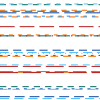
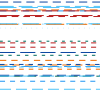
Deploying to gh-pages from  @ 7e85a0831d0af09599119f957cc7158f2b35ffed 🚀

diff --git a/index.html b/index.html
@@ -7,7 +7,7 @@
       <link rel="stylesheet" href="style.css" />
     </head>
     <body class="overview">
-      <a href="solutions/033/Moongirl1207/index.html"><img src="033-moongirl1207.png" src="033-moongirl1207" /></a><a href="solutions/028/ellensierens/index.html"><img src="028-ellensierens.png" src="028-ellensierens" /></a><a href="solutions/036/vanessabloes/index.html"><img src="036-vanessabloes.png" src="036-vanessabloes" /></a><a href="solutions/030/YarlVanOnckelen/index.html"><img src="030-yarlvanonckelen.png" src="030-yarlvanonckelen" /></a><a href="solutions/025/lukasdebeerst/index.html"><img src="025-lukasdebeerst.png" src="025-lukasdebeerst" /></a><a href="solutions/002/SimonVanherweghe/index.html"><img src="002-simonvanherweghe.png" src="002-simonvanherweghe" /></a><a href="solutions/004/SimonVanherweghe/index.html"><img src="004-simonvanherweghe.png" src="004-simonvanherweghe" /></a><a href="solutions/032/PepijnDejonckheere/index.html"><img src="032-pepijndejonckheere.png" src="032-pepijndejonckheere" /></a><a href="solutions/016/JariDhaenens/index.html"><img src="016-jaridhaenens.png" src="016-jaridhaenens" /></a><a href="solutions/006/amants/index.html"><img src="006-amants.png" src="006-amants" /></a><a href="solutions/002/amants/index.html"><img src="002-amants.png" src="002-amants" /></a><a href="solutions/030/JasperVermeulen/index.html"><img src="030-jaspervermeulen.png" src="030-jaspervermeulen" /></a><a href="solutions/040/ELOYVANTIEGHEM/index.html"><img src="040-eloyvantieghem.png" src="040-eloyvantieghem" /></a><a href="solutions/028/cielbrys/index.html"><img src="028-cielbrys.png" src="028-cielbrys" /></a><a href="solutions/003/amants/index.html"><img src="003-amants.png" src="003-amants" /></a><a href="solutions/021/alieseechaute/index.html"><img src="021-alieseechaute.png" src="021-alieseechaute" /></a><a href="solutions/005/SarahVanDenBerghe/index.html"><img src="005-sarahvandenberghe.png" src="005-sarahvandenberghe" /></a><a href="solutions/001/amants/index.html"><img src="001-amants.png" src="001-amants" /></a><a href="solutions/026/RobinVandenBerghe/index.html"><img src="026-robinvandenberghe.png" src="026-robinvandenberghe" /></a><a href="solutions/029/JariDhaenens/index.html"><img src="029-jaridhaenens.png" src="029-jaridhaenens" /></a><a href="solutions/015/gilkevermander/index.html"><img src="015-gilkevermander.png" src="015-gilkevermander" /></a><a href="solutions/001/wouterverweirder/index.html"><img src="001-wouterverweirder.png" src="001-wouterverweirder" /></a><a href="solutions/035/liencard/index.html"><img src="035-liencard.png" src="035-liencard" /></a><a href="solutions/016/Moongirl1207/index.html"><img src="016-moongirl1207.png" src="016-moongirl1207" /></a><a href="solutions/027/larsmarginet/index.html"><img src="027-larsmarginet.png" src="027-larsmarginet" /></a>
+      <a href="solutions/016/Moongirl1207/index.html"><img src="016-moongirl1207.png" src="016-moongirl1207" /></a><a href="solutions/040/ELOYVANTIEGHEM/index.html"><img src="040-eloyvantieghem.png" src="040-eloyvantieghem" /></a><a href="solutions/001/wouterverweirder/index.html"><img src="001-wouterverweirder.png" src="001-wouterverweirder" /></a><a href="solutions/001/amants/index.html"><img src="001-amants.png" src="001-amants" /></a><a href="solutions/002/SimonVanherweghe/index.html"><img src="002-simonvanherweghe.png" src="002-simonvanherweghe" /></a><a href="solutions/015/wouterverweirder/index.html"><img src="015-wouterverweirder.png" src="015-wouterverweirder" /></a><a href="solutions/029/JariDhaenens/index.html"><img src="029-jaridhaenens.png" src="029-jaridhaenens" /></a><a href="solutions/030/YarlVanOnckelen/index.html"><img src="030-yarlvanonckelen.png" src="030-yarlvanonckelen" /></a><a href="solutions/025/lukasdebeerst/index.html"><img src="025-lukasdebeerst.png" src="025-lukasdebeerst" /></a><a href="solutions/005/SarahVanDenBerghe/index.html"><img src="005-sarahvandenberghe.png" src="005-sarahvandenberghe" /></a><a href="solutions/032/PepijnDejonckheere/index.html"><img src="032-pepijndejonckheere.png" src="032-pepijndejonckheere" /></a><a href="solutions/006/amants/index.html"><img src="006-amants.png" src="006-amants" /></a><a href="solutions/016/JariDhaenens/index.html"><img src="016-jaridhaenens.png" src="016-jaridhaenens" /></a><a href="solutions/027/larsmarginet/index.html"><img src="027-larsmarginet.png" src="027-larsmarginet" /></a><a href="solutions/026/RobinVandenBerghe/index.html"><img src="026-robinvandenberghe.png" src="026-robinvandenberghe" /></a><a href="solutions/030/JasperVermeulen/index.html"><img src="030-jaspervermeulen.png" src="030-jaspervermeulen" /></a><a href="solutions/021/alieseechaute/index.html"><img src="021-alieseechaute.png" src="021-alieseechaute" /></a><a href="solutions/033/Moongirl1207/index.html"><img src="033-moongirl1207.png" src="033-moongirl1207" /></a><a href="solutions/028/ellensierens/index.html"><img src="028-ellensierens.png" src="028-ellensierens" /></a><a href="solutions/028/cielbrys/index.html"><img src="028-cielbrys.png" src="028-cielbrys" /></a><a href="solutions/015/gilkevermander/index.html"><img src="015-gilkevermander.png" src="015-gilkevermander" /></a><a href="solutions/035/liencard/index.html"><img src="035-liencard.png" src="035-liencard" /></a><a href="solutions/004/SimonVanherweghe/index.html"><img src="004-simonvanherweghe.png" src="004-simonvanherweghe" /></a><a href="solutions/002/amants/index.html"><img src="002-amants.png" src="002-amants" /></a><a href="solutions/036/vanessabloes/index.html"><img src="036-vanessabloes.png" src="036-vanessabloes" /></a><a href="solutions/003/amants/index.html"><img src="003-amants.png" src="003-amants" /></a>
     </body>
   </html>
   

diff --git a/solutions/015/wouterverweirder/index.html b/solutions/015/wouterverweirder/index.html
@@ -1,0 +1,26 @@
+<!DOCTYPE html>
+<html lang="en">
+  <head>
+    <meta charset="UTF-8" />
+    <meta name="viewport" content="width=device-width, initial-scale=1.0" />
+    <link rel="stylesheet" href="../../../style/style.css" />
+    <title>Solution 015</title>
+  </head>
+  <body class="detail">
+    <h1>
+      <a
+        href="https://github.com/devinekask/Workshop-Continuous-Integration/issues/23"
+        >015</a
+      >
+    </h1>
+    <canvas width="300" height="300"></canvas>
+    <p>Gilke Vermander</p>
+    <script type="module">
+      import draw from "./solution.js";
+      const canvas = document.querySelector("canvas");
+      const ctx = canvas.getContext("2d");
+      ctx.scale(3, 3);
+      draw(ctx);
+    </script>
+  </body>
+</html>

diff --git a/solutions/015/wouterverweirder/solution.js b/solutions/015/wouterverweirder/solution.js
@@ -1,0 +1,23 @@
+const draw = function (ctx) {
+  const colors = [
+    "#4fc3f7",
+    "#00695c",
+    "#ef6c00",
+    "#0d47a1",
+    "#2196f3",
+    "#b71c1c",
+    "#4fc3f7",
+  ];
+
+  colors.forEach((color, index) => {
+    ctx.beginPath();
+    ctx.strokeStyle = color;
+    ctx.fillStyle = "#b71c1c";
+    ctx.fillRect(10, 10, 80, 80);
+    ctx.stroke();
+  });
+
+  return ctx;
+};
+
+export default draw;
